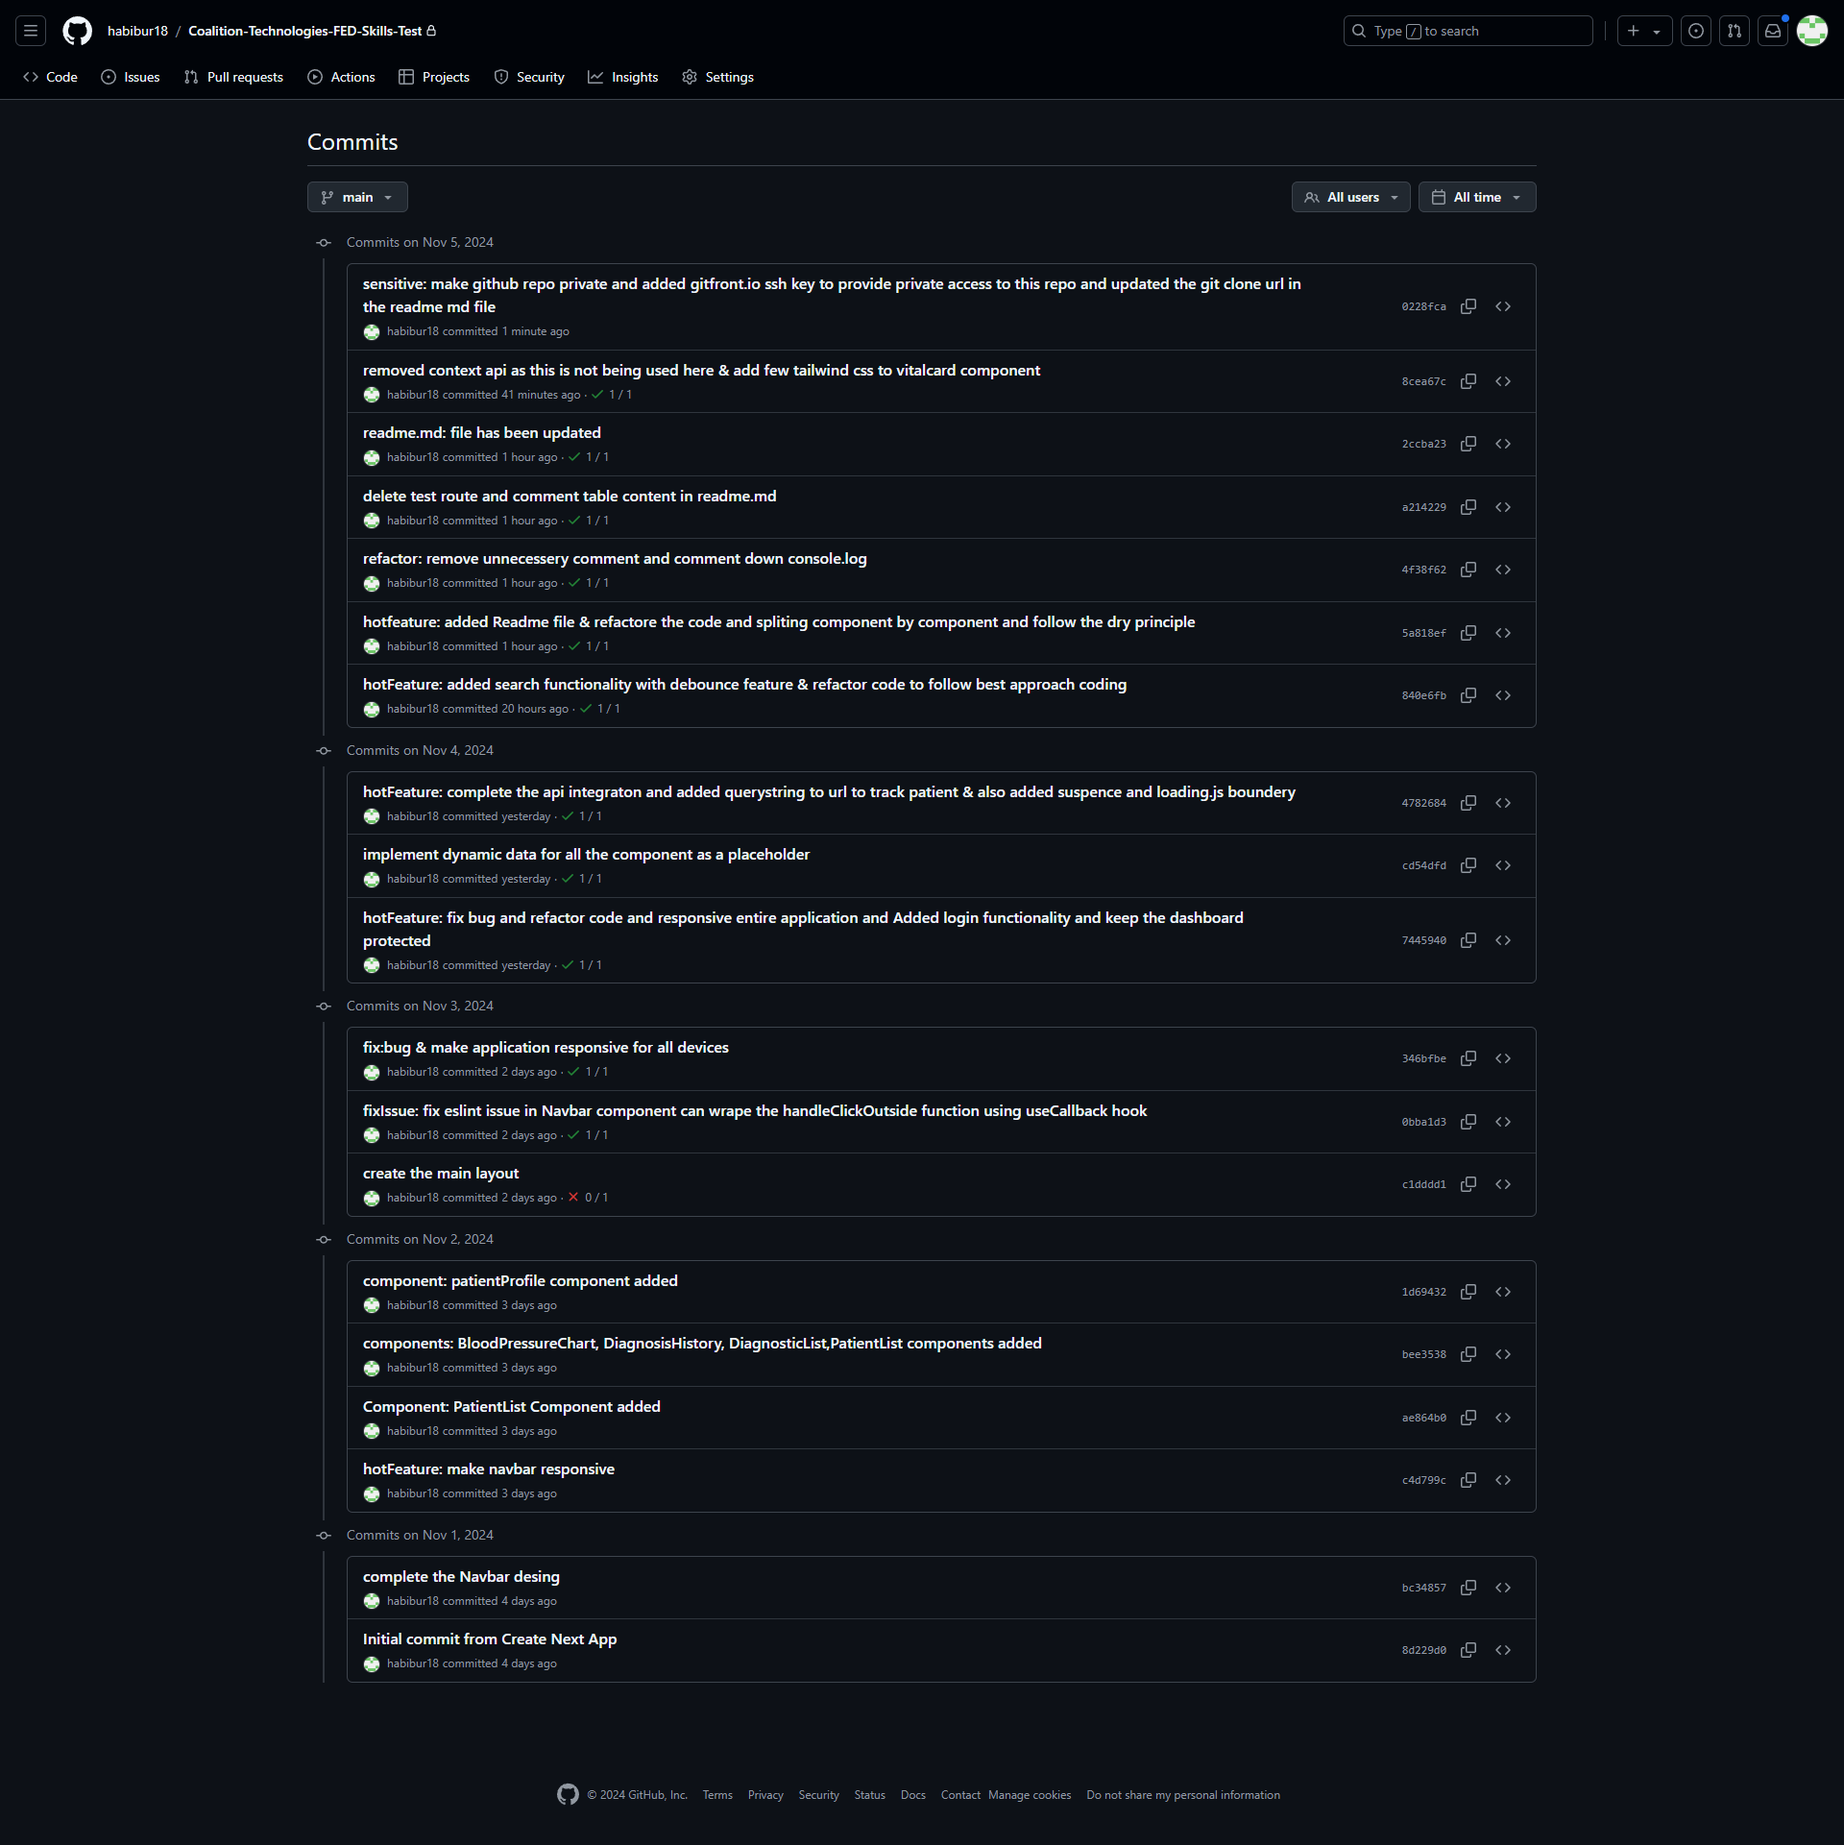
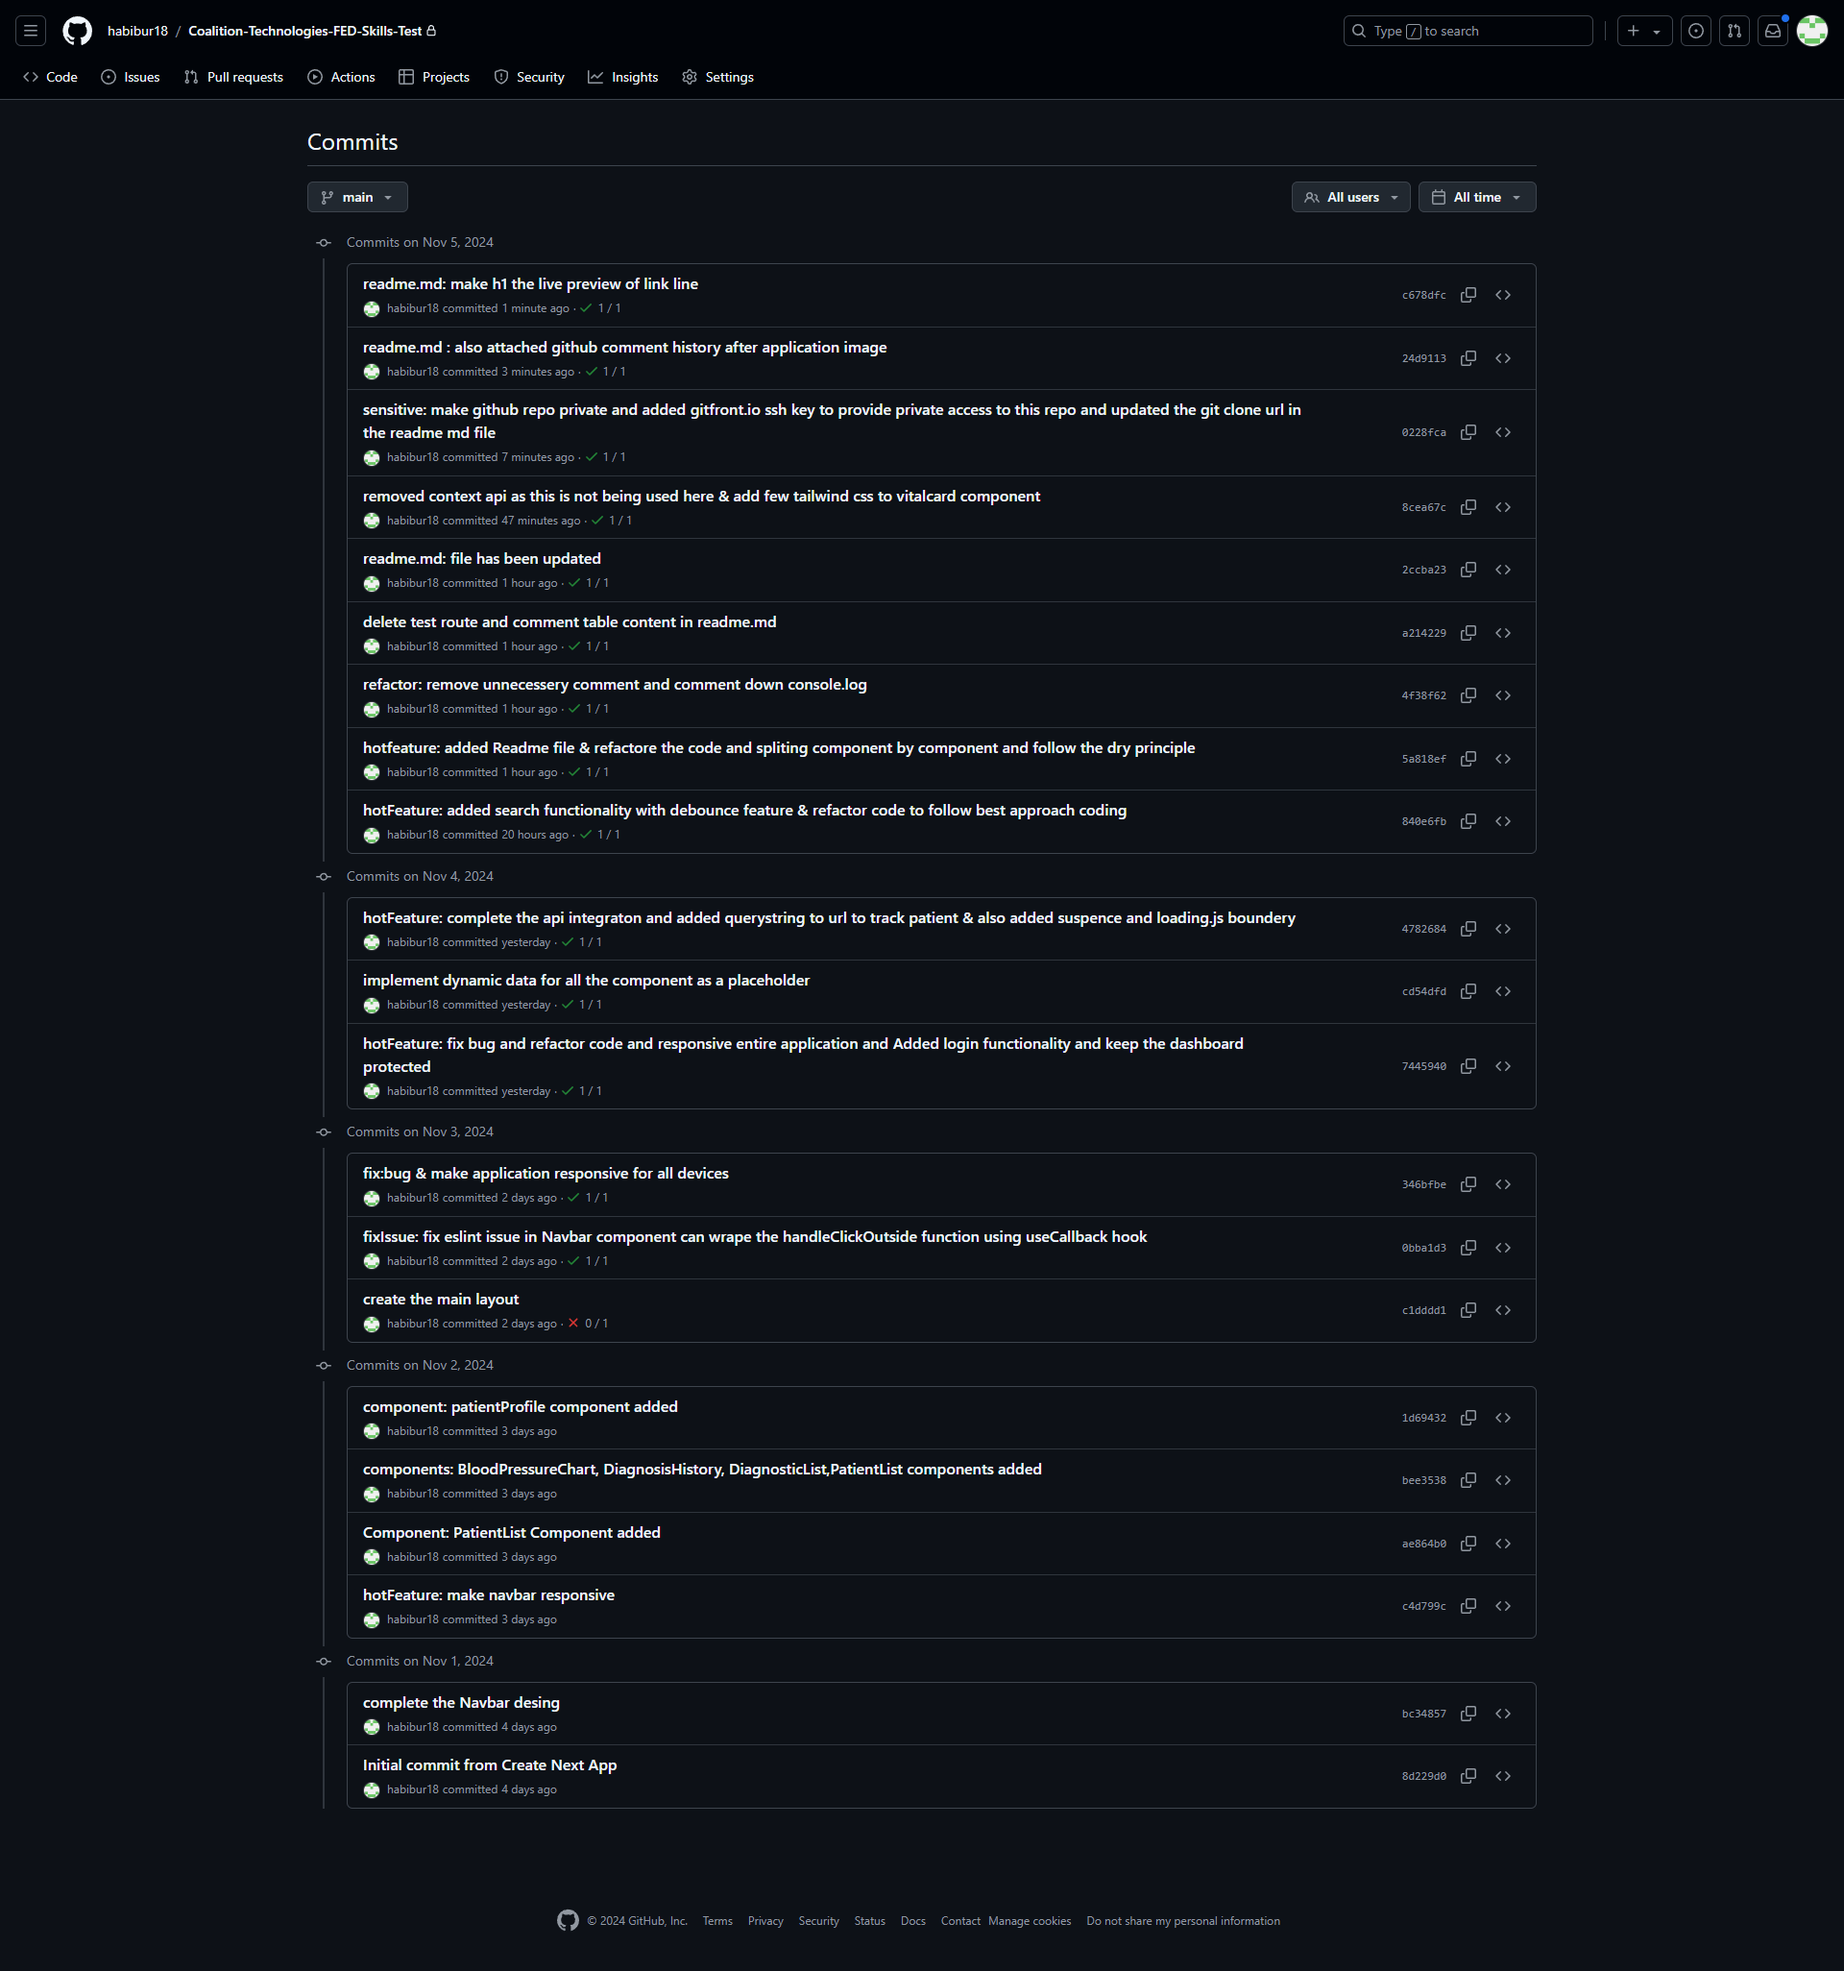
readme.md: updated readme.md file        context and screnshot

diff --git a/README.md b/README.md
@@ -31,6 +31,9 @@ This project is a patient management dashboard interface for **Tech Care**, deve
 ## Demo :demo-application-screenshot:
 
 ![Screenshot of Tech Care Patient Dashboard](./public/screen.png)
+
+## Github Tracking :Github comment history
+
 ![Github comments history](./public/comments.png)
 
 ---
@@ -117,4 +120,14 @@ The patient list includes a **search bar with debounce functionality**, optimizi
 
 ---
 
-##### Note: This application follow best practices and `Do Repeat Yourself`(DRY) principle.
+#### Note:
+
+This application follow best practices and `Do Repeat Yourself`(DRY) principle.
+
+#### P.S. For my recruiter:
+
+`I'm eager to learn and grow as a developer. While I haven't formally studied data structures and algorithms or platforms like LeetCode, but I’m dedicated to writing clean, efficient code. I follow the DRY principle and often find optimized solutions, for instance, using reduce instead of traditional loops or finding ways around standard sorting methods to improve performance.`
+
+`AI tools are part of my workflow, and I use them thoughtfully to enhance my work. If I understand a solution and it’s efficient, I’ll use it. If not, I move forward with approaches I fully grasp. I always prioritize readability, performance, and overall code quality. I know how to identify limitations and can adapt as needed to keep applications running smoothly.`
+
+`I’m excited for this opportunity, and you have my commitment to give my best in all aspects. Thank you very much for your consideration.`
